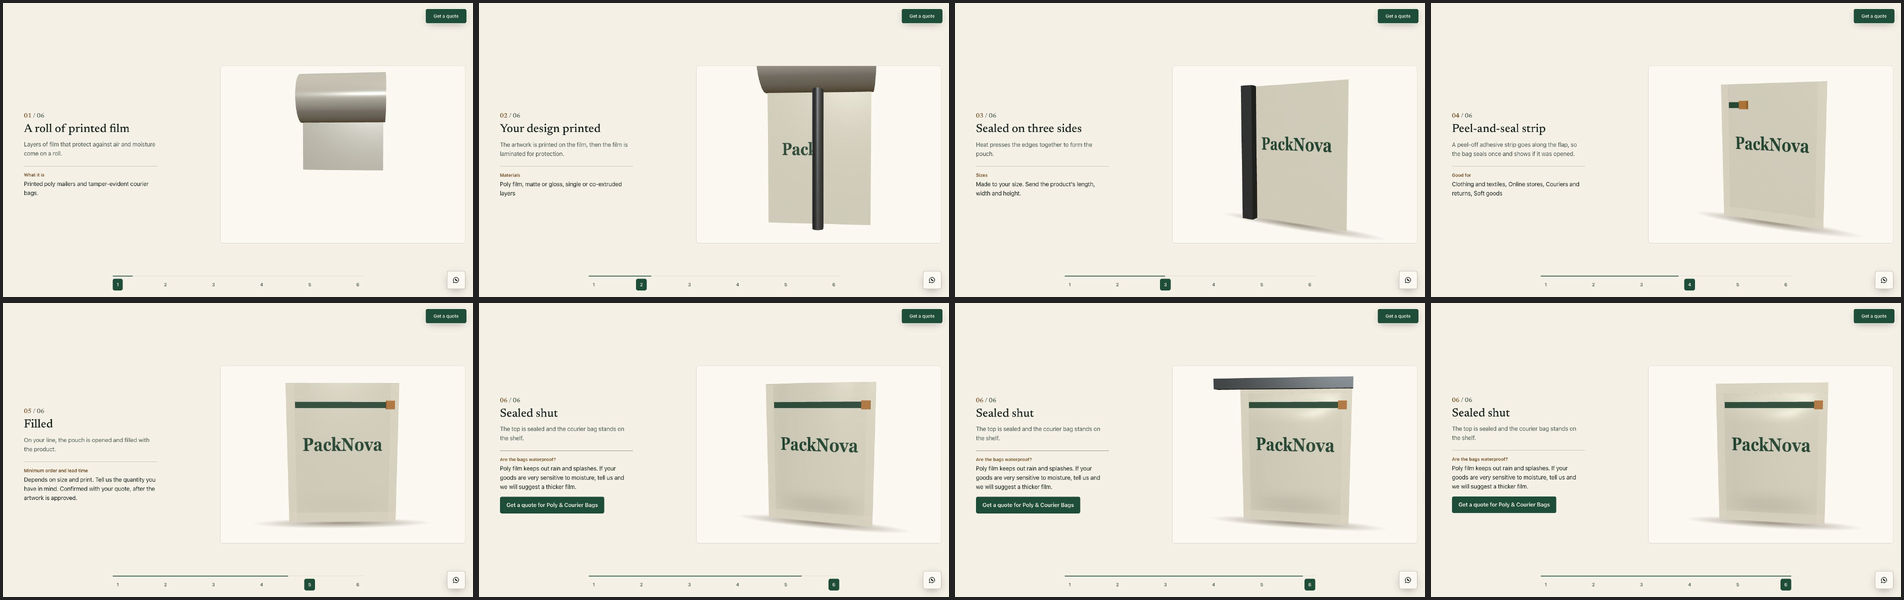
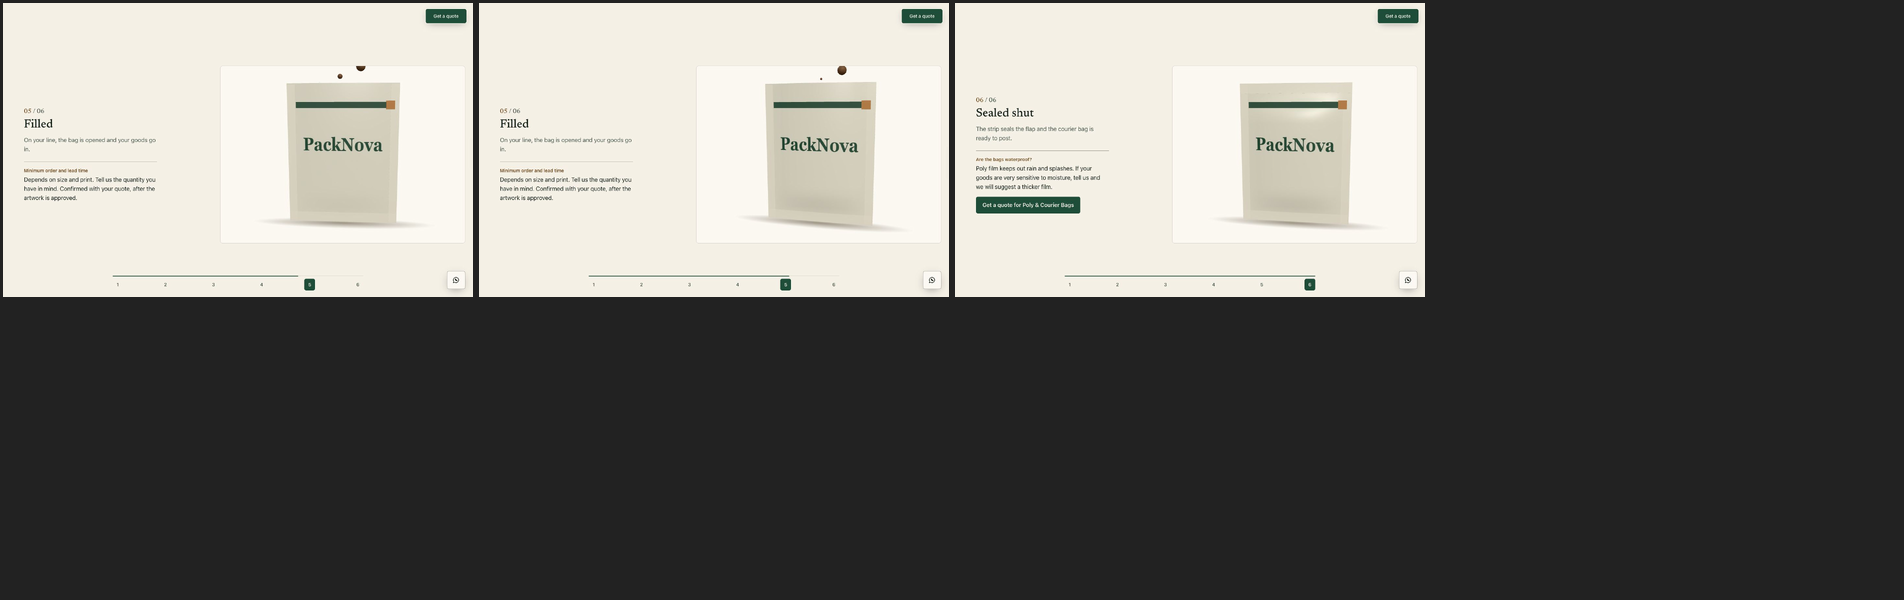
Phase 4 step 0: static server never serves stale files, full 20-navigation leak test with JS heap, poly bag copy, stars sway instead of spinning edge-on

diff --git a/src/content/catalog.ts b/src/content/catalog.ts
@@ -517,6 +517,7 @@ const ENTRIES: Entry[] = [
     uses: ["Clothing and textiles", "Online stores", "Couriers and returns", "Soft goods"],
     finishes: ["Matte or gloss film", "Peel-and-seal strip", "Tamper-evident seal", "One to four colors"],
     extra: { q: "Are the bags waterproof?", a: "Poly film keeps out rain and splashes. If your goods are very sensitive to moisture, tell us and we will suggest a thicker film." },
+    notes: { fill: "On your line, the bag is opened and your goods go in.", final: "The strip seals the flap and the {noun} is ready to post." },
     related: ["/industry/mylar-bags/", "/shape-and-style/paper-bags/", "/industry/apparel-boxes/"],
   },
   {

diff --git a/src/film/props.ts b/src/film/props.ts
@@ -201,7 +201,8 @@ export function createProps(pool: Pool, skin: Skin, area: PropArea): Props | nul
             break;
           case "star":
             y += Math.sin(t * 36 + i * 2.1) * 0.03 + (1 - e) * 1.0;
-            ry = t * 9 + i;
+            ry = Math.sin(t * 14 + i * 1.7) * 0.55; // sways, never edge-on
+            rz = Math.sin(t * 9 + i) * 0.12;
             break;
           case "snowflake":
             y += (1 - e) * 1.3 + Math.sin(t * 30 + i) * 0.02;

diff --git a/README.md b/README.md
@@ -18,6 +18,8 @@ Requires **Node >= 20.19** (Tailwind's Turbopack loader needs `require(esm)`). `
     npm run build    # static export to ./out
     npm run lint
     npm run serve:out   # serve ./out with Brotli on 0.0.0.0:8080 (prints the phone URL)
+                        # files are re-read whenever they change on disk (mtime + size), so a rebuild is picked up
+                        # without restarting the server; stop it with Ctrl+C. All test scripts expect it on :8080.
 
     node scripts/perf-measure.mjs --base http://localhost:8080 [--cpu 4] [--net slow4g] [--mobile]
     bash scripts/perf-matrix.sh            # full throttled matrix + Lighthouse (run on a quiet machine)
